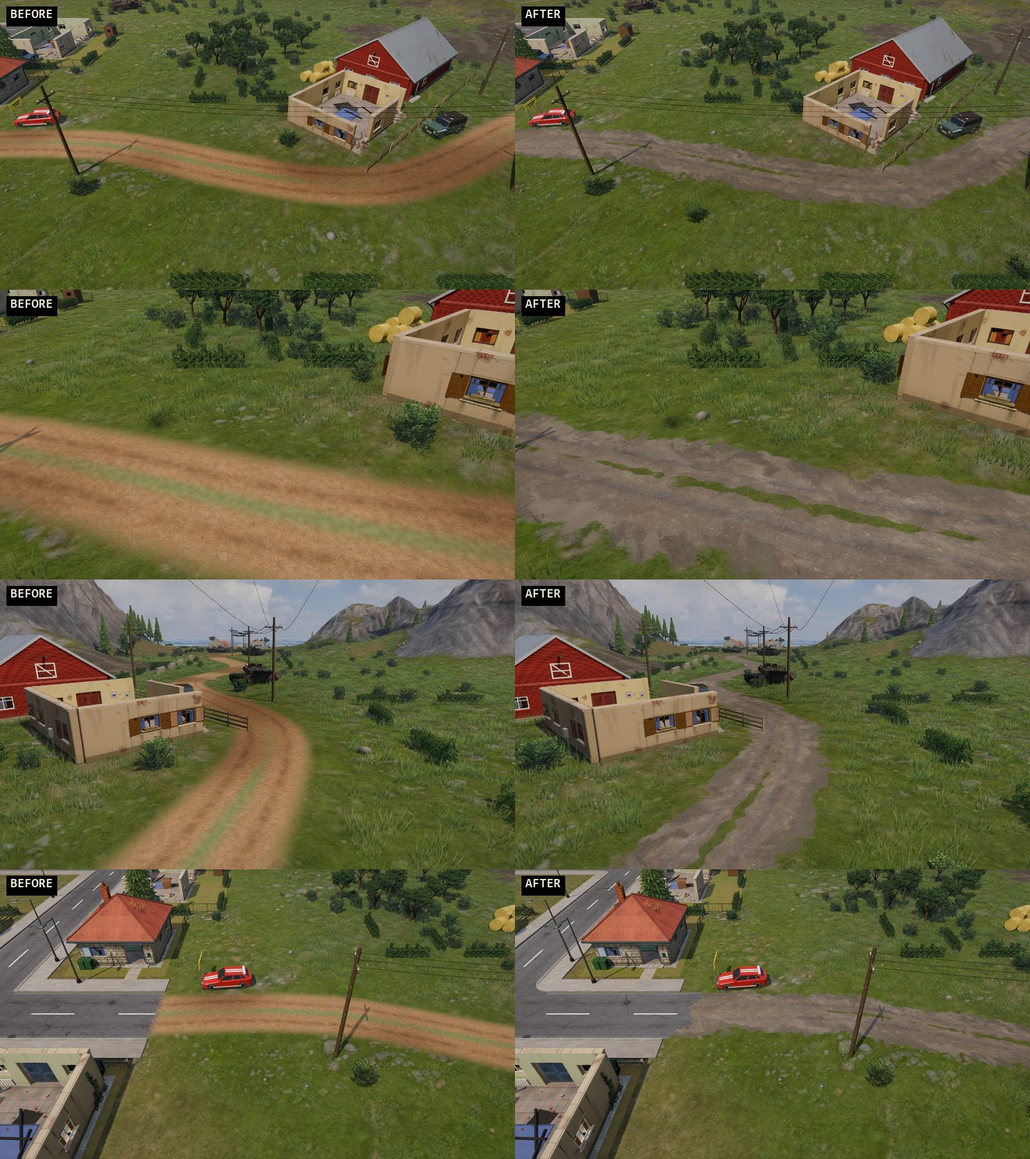
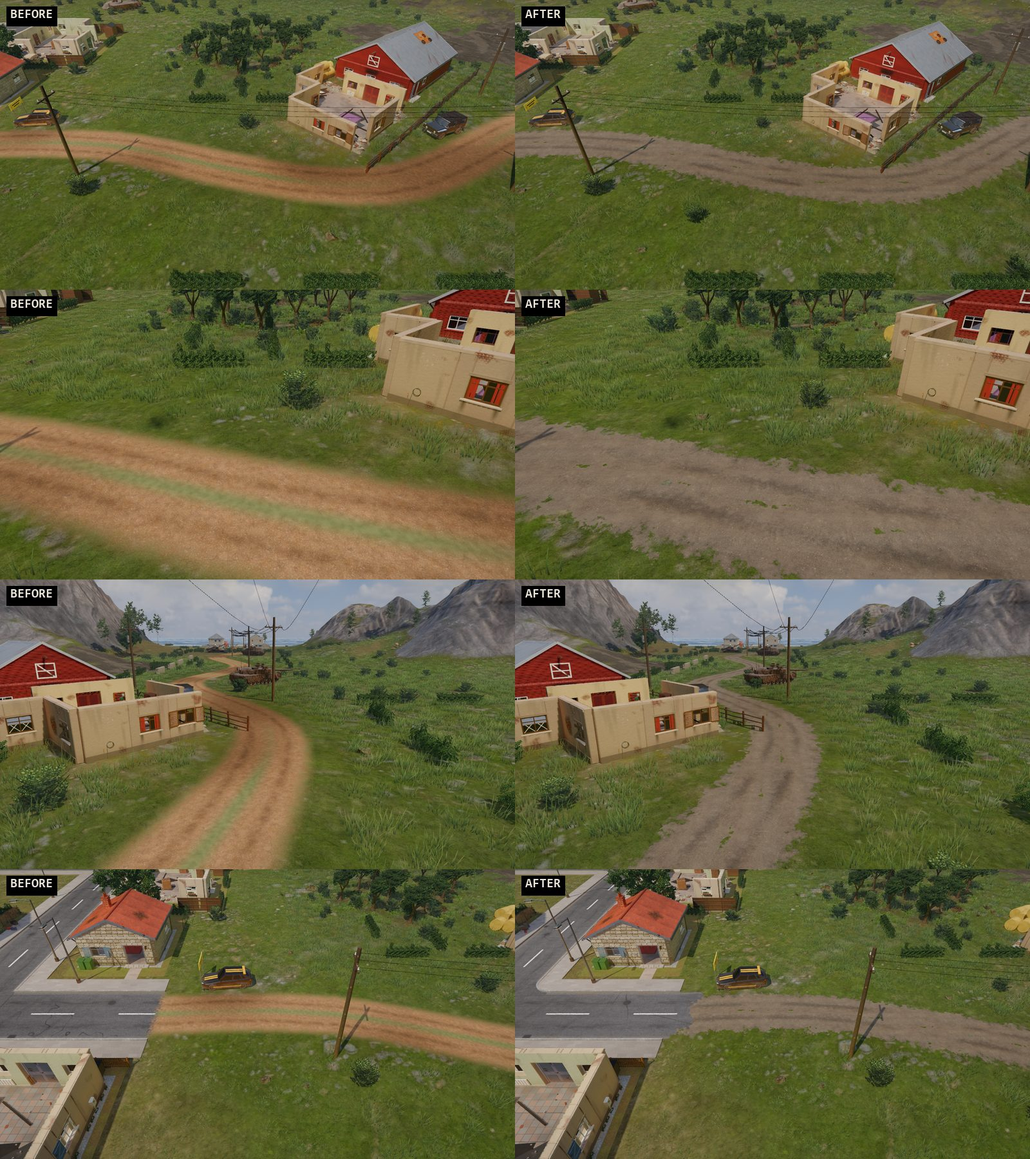
Draw country tracks in the terrain, not as a ribbon on it
The track ribbon was a separate mesh with its own textures, colour and
lighting, cut out at its edges, so it always read as a strip laid on the
meadow. Tracks are now drawn by the ground shader, as terrain artists
paint roads into the landscape's own material mask:

- The grass job rasterises each texel's nearness to a map road
  (Grass.road_field, about 50 ms on its worker) into the packed biome
  texture's blue channel.
- The trail scan joins the terrain material arrays (layer 11), blended
  in by its height against the turf's, so the meadow takes the track
  back between the stones. Its shoulders are the meadow's own rutted
  soil, and wandering wheel ruts and rolled shoulders tilt the normal.
- The road ribbon draws only the town's asphalt and discards elsewhere.

Drops the aerial dirt scan the ribbon used. Tests: the packed biome
carries the road field; the ribbon leaves the country to the ground;
the material arrays include the track layer.

diff --git a/tools/bake_town_assets.py b/tools/bake_town_assets.py
@@ -26,9 +26,9 @@ def mean_colour(image):
     return result
 
 
-NAMES = ["aerial_asphalt_01", "concrete_pavement", "leafy_grass", "roof_tiles", "weathered_planks", "concrete_floor_01", "asphalt_02", "brick_wall_001", "plastered_wall", "tree_bark_03", "gravelly_sand", "road_damaged_clean", "rocky_trail_02", "dirt_aerial_03"]
-COLOUR_ONLY = {"asphalt_02", "dirt_aerial_03"}  # repair patches share the road relief; the aerial dirt only shades the trail
-WITH_HEIGHT = {"rocky_trail_02"}  # its height rides in the colour's alpha, for height-blending the track into the meadow
+NAMES = ["aerial_asphalt_01", "concrete_pavement", "leafy_grass", "roof_tiles", "weathered_planks", "concrete_floor_01", "asphalt_02", "brick_wall_001", "plastered_wall", "tree_bark_03", "gravelly_sand", "road_damaged_clean", "rocky_trail_02"]
+COLOUR_ONLY = {"asphalt_02"}  # repair patches share the road relief
+WITH_HEIGHT = {"rocky_trail_02"}  # its height rides in the colour's alpha: the terrain's track layer height-blends by it
 
 
 def main(only=None):

diff --git a/docs/FEATURES.md b/docs/FEATURES.md
@@ -610,7 +610,7 @@ av.gd`, `hnav.gd`, `terrain.gd`, `squad.gd`)
 - Stuck watchdogs: infantry re-plan if they stop making progress; vehicles back off, turn and re-plan.
 
 **The map** (`mapgen.gd`, `landform.gd`, `towngen.gd`, `decor.gd`)
-- Town asphalt combines fine photographed aggregate with larger cracks and repairs, continuous across street junctions. Traffic wears it by lane: polished wheel paths, oil down each lane's middle, grit and damp in the gutters, with drain grates along the kerbs and manhole covers in the lanes. Repairs are saw-cut patches edged with sealant and cracks are filled with tar. Zebra crossings and parking lines are paint on that same asphalt, worn through in places, and junctions and markings take the rain as the roads do. Sidewalk slabs are shaded along the photograph's own stretcher-bond joints; the square is laid in larger slabs of the same concrete. Outside town a road is a track of photographed trail grit (Rocky Trail 02 at 2 m, shaded by Dirt Aerial 03 at 25 m), with two smoother wheel lines drifting together along it, potholes that hold rain, and a broken crown of grass. Over its last metre or two it gives way to the meadow's own rutted-soil scan and then to grass, through the ribbon's alpha, and grass clumps grow into that shoulder; troops' tracks are that soil throughout. Near the town the track runs full width, and the town's asphalt crumbles into it. Asphalt cracks run along and across the street grid. At crossroads the kerb turns each corner on a 1.6 m radius (TownGen.CORNER_R; Decor builds the corner as a terrain-following fan of paving with asphalt in the bite). Car parks are kerbed on three sides, and playgrounds are surfaced in poured rubber crumb. Road and pavement normal maps follow their actual slopes. Photographic roof, concrete, wood and bark materials are calibrated to their intended colours, so grey roofs remain grey and terracotta stays distinct at distance.
+- Town asphalt combines fine photographed aggregate with larger cracks and repairs, continuous across street junctions. Traffic wears it by lane: polished wheel paths, oil down each lane's middle, grit and damp in the gutters, with drain grates along the kerbs and manhole covers in the lanes. Repairs are saw-cut patches edged with sealant and cracks are filled with tar. Zebra crossings and parking lines are paint on that same asphalt, worn through in places, and junctions and markings take the rain as the roads do. Sidewalk slabs are shaded along the photograph's own stretcher-bond joints; the square is laid in larger slabs of the same concrete. Outside town a track is drawn by the terrain shader itself, not a mesh: the grass job rasterises each texel's nearness to a road (Grass.road_field) into the packed biome texture's blue, and the ground blends the trail scan (terrain layer 11) in by its height against the turf's, with wandering wheel ruts and rolled shoulders in the normal and the meadow's rutted soil at the edges. The road ribbon draws only the town's asphalt. Near the town the track runs full width, and the town's asphalt crumbles into it. Asphalt cracks run along and across the street grid. At crossroads the kerb turns each corner on a 1.6 m radius (TownGen.CORNER_R; Decor builds the corner as a terrain-following fan of paving with asphalt in the bite). Car parks are kerbed on three sides, and playgrounds are surfaced in poured rubber crumb. Road and pavement normal maps follow their actual slopes. Photographic roof, concrete, wood and bark materials are calibrated to their intended colours, so grey roofs remain grey and terracotta stays distinct at distance.
 - Standard battlefields have seeded mountain belts, hills, valleys and rivers. Domain-warped ridged noise,
   jointed bedrock shelves, thermal weathering and seeded rainfall erosion shape the relief. Roads, bridges, starting bases and settlements
   occupy graded valley corridors; forests stay below the snow line and off steep faces.

diff --git a/changelog/unreleased/country-road-tracks.md b/changelog/unreleased/country-road-tracks.md
@@ -1,6 +1,6 @@
 +++
 title = "Country roads worn into the land"
-summary = "Roads outside town are photographed dirt and gravel tracks now, not smooth orange bands, and they fade into the meadow through its own bare soil instead of stopping at a hard edge."
+summary = "Country tracks are part of the ground now, not a strip laid on it: worn earth with wandering wheel ruts, drawn by the terrain itself and taken back by the meadow stone by stone."
 kind = "improved"
 
 [[screenshots]]
@@ -8,12 +8,10 @@ file = "comparison.jpg"
 caption = "A country road from afar and close up, the edge of town and a town street, from the same cameras before and after"
 +++
 
-- **The surface** is photographed: trail grit and small stones underfoot, with broad scuffs and wheel marks from an aerial survey of worn dirt, in this country's dull grey-brown.
-- **The edges blend into the meadow.** Over the last metre or two the gravel gives way to the ground's own bare soil, then to grass growing through it in tufts, and the grass now grows into the shoulder.
-- **Wheel lines** are pressed smoother and darker, and a broken line of grass holds on down the middle.
-- **The track is shaped**: wheel ruts pressed into it, a crown between them, and shoulders that roll off into the grass.
-- **Potholes** sit in the wheel lines and fill with water in the rain.
-- **Tracks worn in by the troops** are the meadow's own earth, rutted darker.
+- **Drawn by the ground itself**: a track is the terrain's own soil where wheels have worn the turf away, lit and shaded like the meadow round it, so it no longer looks laid on top.
+- **Edges by height**: the grass comes back in tufts between the stones, then thickens into the meadow, instead of stopping at a line.
+- **Wheel ruts** wander, widen and fade along the track, with a crown of grass between them in places and shoulders that roll off into the turf.
+- **In the rain** water stands in the ruts.
 - **At the edge of town** the asphalt crumbles away into the gravel, and the track runs full width where everything going in and out wears it.
 - **In the rain** streets go dark and glossy with standing water in the dips, the same across every junction.
 - **Junctions** no longer show faint outlines or gutter lines where their paving meets the road.

diff --git a/assets/town/LICENSE.md b/assets/town/LICENSE.md
@@ -17,7 +17,6 @@ CC0 1.0 assets from [Poly Haven](https://polyhaven.com/license):
 - [Tree Bark 03](https://polyhaven.com/a/tree_bark_03), Rob Tuytel.
 - [Gravelly Sand](https://polyhaven.com/a/gravelly_sand), Dario Barresi.
 - [Rocky Trail 02](https://polyhaven.com/a/rocky_trail_02), Amal Kumar; 2 m scan.
-- [Dirt Aerial 03](https://polyhaven.com/a/dirt_aerial_03), Rob Tuytel; 25 m scan.
 
 `tools/bake_town_assets.py` verifies original 2K JPEG source checksums from
 `sources.json`, caches downloads under `build/terrain/town-source`, and packs
@@ -32,10 +31,9 @@ with Road Damaged Clean at 2.2 m for fine aggregate and normal/roughness detail.
 The fine scan is desaturated toward charcoal in the shader; repaired patches
 retain the same aggregate scale. The normal maps follow the actual road slope.
 
-Country roads are the trail scan at 2 m (its height packed in the colour alpha), its grit and stones underfoot, shaded
-by the aerial dirt at 25 m for broad scuffs and wheel marks (colour only). Their
-shoulders and troops' tracks use the meadow's own rutted-soil scan (assets/terrain),
-so a track's edge is the same earth as the ground it fades into.
+Country tracks are drawn by the terrain itself: the trail scan (its height
+packed in the colour alpha) is a layer of the terrain's material arrays, and
+its shoulders blend into the meadow's own rutted-soil scan (assets/terrain).
 
 The baker also measures each packed photograph's average linear albedo in
 `material_means.tres`. Building materials use those values to preserve their
